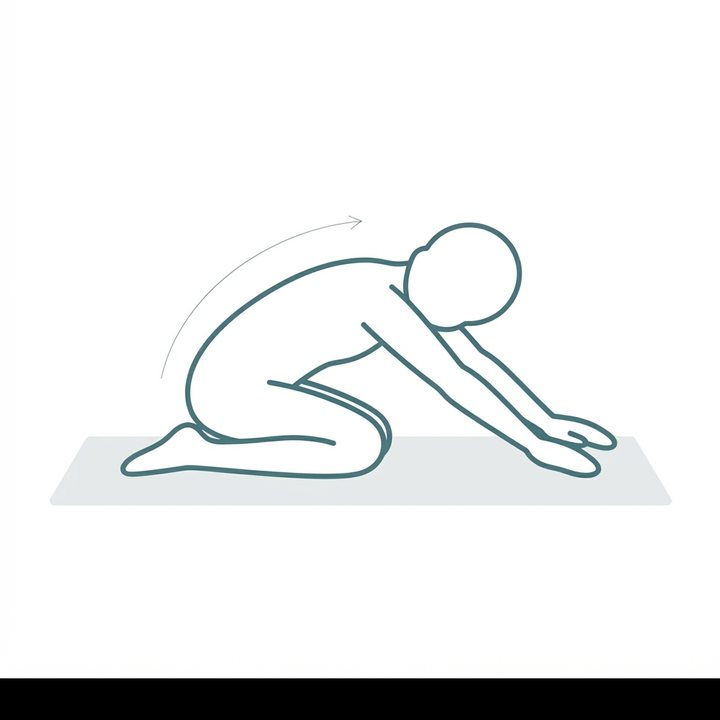
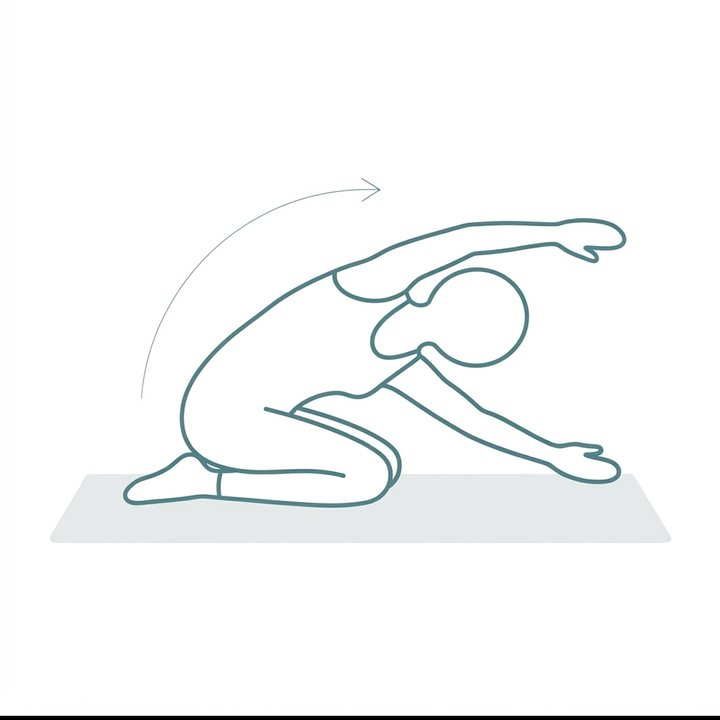
Dibujos de yoga y esterilla: 18 posturas nuevas (50 en total)
Cobra, puente, cachorro, libro abierto, niño hacia un lado, torsión sentada, paloma, 90/90,
mariposa tumbada, piernas cruzadas, lagarto, pinza abierta, cabeza a la rodilla, media pinza,
perro boca abajo, cuádriceps de lado, estirón tumbado y brazos de vaca sentado.
Con ellas el 80 % de las posturas de una sesión son en el suelo. La rana queda sin activar
(su dibujo salió mal). Cache cuerpo-v5.

Changed region(s): [[0.0611, 0.3056, 0.9472, 0.7639], [0.0, 0.9167, 1.0, 1.0], [0.4889, 0.2444, 0.5194, 0.275]]

diff --git a/data.js b/data.js
@@ -148,8 +148,13 @@ const POSTURAS_NUEVAS = [
 ];
 
 // Las de abajo ya tienen su dibujo revisado. Se van añadiendo ids según llegan los dibujos nuevos.
+// Sin activar: cadera-rana (su dibujo salió como un lagarto; hay que rehacerlo).
 const NUEVAS_ACTIVAS = [
   'cuello-giro', 'cuello-diagonal', 'cuello-aguila', 'cuello-vaca-brazos', 'cuello-manos-nuca', 'cuello-pared-pecho',
-  'espalda-vaca', 'espalda-hilo-aguja', 'espalda-lateral-sentada'
+  'cuello-vaca-sentada',
+  'espalda-vaca', 'espalda-hilo-aguja', 'espalda-lateral-sentada', 'espalda-cobra', 'espalda-puente', 'espalda-cachorro',
+  'espalda-libro-abierto', 'espalda-nino-lateral', 'espalda-torsion-sentada',
+  'cadera-paloma', 'cadera-90-90', 'cadera-mariposa-tumbada', 'cadera-cruzada-adelante', 'cadera-lagarto', 'cadera-pinza-abierta',
+  'pierna-cabeza-rodilla', 'pierna-media-pinza', 'pierna-perro', 'pierna-cuadriceps-lado', 'pierna-estiron-tumbado'
 ];
 POSTURAS.push(...POSTURAS_NUEVAS.filter(p => NUEVAS_ACTIVAS.includes(p.id)));

diff --git a/sw.js b/sw.js
@@ -4,7 +4,7 @@
    Si cambias archivos de la app, sube el número de CACHE para que se vuelvan a guardar todos. */
 importScripts('data.js');                       // para saber qué dibujos hay que guardar
 
-const CACHE = 'cuerpo-v4';
+const CACHE = 'cuerpo-v5';
 const BASE = ['./', 'index.html', 'estira.html', 'gimnasio.html', 'gimnasio.css', 'gimnasio.js', 'registro-sw.js',
               'styles.css', 'data.js', 'audio.js', 'app.js', 'manifest.webmanifest',
               'icons/icon-180.png', 'icons/icon-192.png', 'icons/icon-512.png'];
